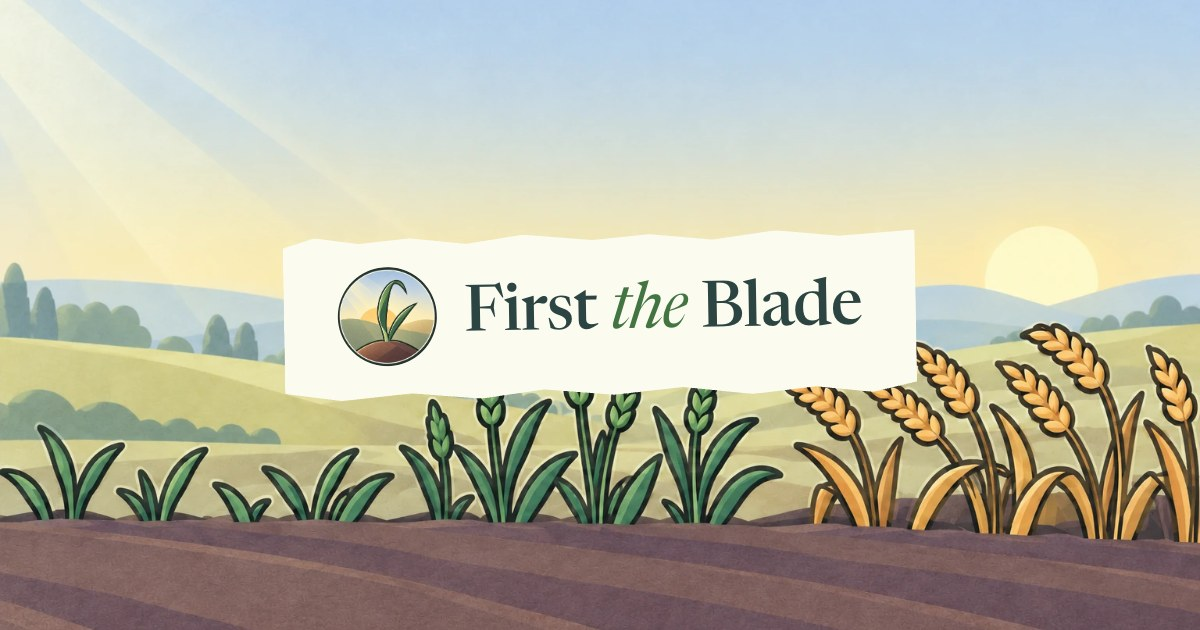
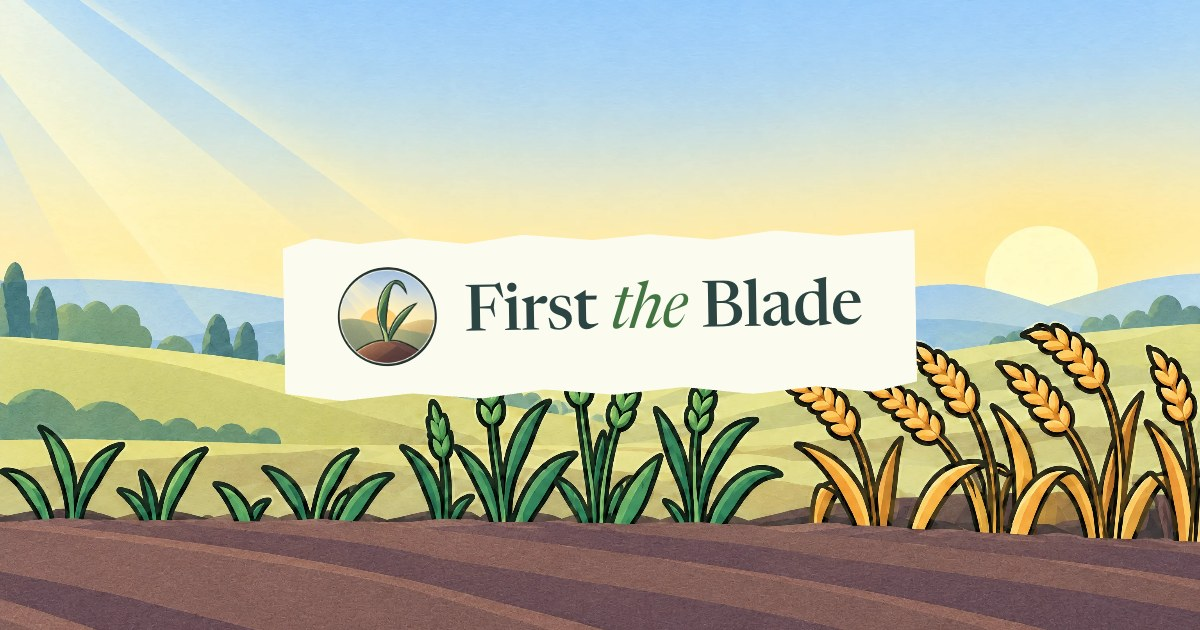
feat(firsttheblade): the hero is round 5's repaint of the field at 3072 px
The owner chose the repaint in brand round 5 (ask a296fc80e5e: "i like the e
repainted colors there - more crisp"). The field ships at 768, 1536 and 3072
px, each from the 3072 px master, so a 2x screen at 1440 px draws real
pixels. The link cards follow the hero, so a shared link looks like the page
it opens; the YouTube kit keeps round 4's field, as set 6 was picked with it
(its files are byte for byte the same).

diff --git a/apps/firsttheblade/kit/draw.ts b/apps/firsttheblade/kit/draw.ts
@@ -8,8 +8,10 @@
  * - The site's link cards and icons, into `public/`: a card per page
  *   (`og/<page>.jpg`, 1200 × 630), the app icons and `favicon.ico`.
  *
- * The paintings are brand round 4's (`kit/art/` at full size; the emblems
- * from `src/art/`); the colours are `src/palette.ts`.
+ * The YouTube kit's paintings are brand round 4's (`kit/art/` at full size).
+ * The link cards show the site's own hero, round 5's repaint of the field
+ * (`src/art/field-3072.webp`), so a shared link looks like the page it opens;
+ * the emblems are from `src/art/`. The colours are `src/palette.ts`.
  */
 import { BunRuntime, BunServices } from '@effect/platform-bun';
 import { chromium, type Browser } from '@playwright/test';
@@ -54,8 +56,13 @@ const lockup = (px: number) =>
 const strip = (inner: string, padding: string) =>
   `<div style="display:inline-block;background:${PALETTE.strip};clip-path:${TORN};padding:${padding}">${inner}</div>`;
 
-const field = (position: string) =>
-  `<div style="position:absolute;inset:0;background:url(${kitArt('field.webp')}) ${position}/cover"></div>`;
+/** The field as YouTube set 6 was picked with it: round 4's painting. */
+const YOUTUBE_FIELD = kitArt('field.webp');
+/** The field as the site's hero shows it. */
+const SITE_FIELD = url(`${APP}/src/art/field-3072.webp`);
+
+const field = (art: string, position: string) =>
+  `<div style="position:absolute;inset:0;background:url(${art}) ${position}/cover"></div>`;
 
 const frame = (width: number, height: number, inner: string) =>
   `<div style="position:relative;width:${width}px;height:${height}px;overflow:hidden">${inner}</div>`;
@@ -160,7 +167,7 @@ const DESKTOP = { y: 508.5, height: 423 } as const;
 const banner = frame(
   2560,
   1440,
-  `${field('50% 58%')}<div style="position:absolute;left:50%;top:720px;transform:translate(-50%,-50%) rotate(-1deg)">${strip(lockup(110), '40px 80px')}</div>`,
+  `${field(YOUTUBE_FIELD, '50% 58%')}<div style="position:absolute;left:50%;top:720px;transform:translate(-50%,-50%) rotate(-1deg)">${strip(lockup(110), '40px 80px')}</div>`,
 );
 
 /** What a TV, a computer and a phone show of the banner. */
@@ -208,14 +215,14 @@ const OG = { width: 1200, height: 630 } as const;
 const homeCard = frame(
   OG.width,
   OG.height,
-  `${field('50% 58%')}<div style="position:absolute;left:50%;top:50%;transform:translate(-50%,-50%) rotate(-1deg)">${strip(lockup(64), '30px 54px')}</div>`,
+  `${field(SITE_FIELD, '50% 58%')}<div style="position:absolute;left:50%;top:50%;transform:translate(-50%,-50%) rotate(-1deg)">${strip(lockup(64), '30px 54px')}</div>`,
 );
 
 const seriesCard = (series: Series) =>
   frame(
     OG.width,
     OG.height,
-    `${field('50% 58%')}<div style="position:absolute;left:50%;top:50%;transform:translate(-50%,-50%) rotate(-1deg)">${strip(
+    `${field(SITE_FIELD, '50% 58%')}<div style="position:absolute;left:50%;top:50%;transform:translate(-50%,-50%) rotate(-1deg)">${strip(
       `<div style="display:flex;align-items:center;gap:32px"><img src="${emblem(series.id)}" width="132" height="132" alt=""><div><div style="font:500 17px Newsreader;letter-spacing:.16em;text-transform:uppercase;color:${PALETTE.accent};white-space:nowrap">${series.subject} · ${series.form}</div><div style="margin-top:6px;font:500 64px/1.05 Newsreader;font-variation-settings:'opsz' 72;letter-spacing:-.015em;color:${PALETTE.ink};white-space:nowrap">${series.name}</div><div style="margin-top:14px">${lockup(26)}</div></div></div>`,
       '34px 56px',
     )}</div>`,

diff --git a/apps/firsttheblade/src/ui/art.ts b/apps/firsttheblade/src/ui/art.ts
@@ -1,8 +1,9 @@
 /**
  * The site's pictures, by what they show. Each import is the built file's
  * URL (Vite fingerprints it under `/assets/`, which is cached for a year).
- * The field, the night and the mark are brand round 4's paintings in palette
- * 09; the emblems are round 3's series marks in the same colours.
+ * The field is brand round 5's repaint of round 4's field at 3072 px; the
+ * night and the mark are round 4's paintings in palette 09; the emblems are
+ * round 3's series marks in the same colours.
  */
 import emblemLand from '../art/emblem-land.svg';
 import emblemMilk from '../art/emblem-milk.svg';
@@ -10,25 +11,33 @@ import emblemRemedies from '../art/emblem-remedies.svg';
 import emblemTaught from '../art/emblem-taught.svg';
 import field768 from '../art/field-768.webp';
 import field1536 from '../art/field-1536.webp';
+import field3072 from '../art/field-3072.webp';
 import mark112 from '../art/mark-112.webp';
 import mark320 from '../art/mark-320.webp';
 import night768 from '../art/night-768.webp';
 import night1536 from '../art/night-1536.webp';
 import type { SeriesId } from '../content.ts';
 
-/** A painting at two widths, for `srcset`; both are 3:2. */
+/** A painting at the widths a page may fetch; each file is 3:2. */
 export interface Painting {
-  readonly small: string;
-  readonly large: string;
+  /** The smallest file, for a browser that reads no `srcset`. */
+  readonly src: string;
+  readonly srcset: string;
 }
 
-export const srcset = (painting: Painting) => `${painting.small} 768w, ${painting.large} 1536w`;
+type Width = readonly [url: string, width: number];
+
+/** A painting from its files, smallest first. */
+const painting = (smallest: Width, ...larger: ReadonlyArray<Width>): Painting => ({
+  src: smallest[0],
+  srcset: [smallest, ...larger].map(([url, width]) => `${url} ${width}w`).join(', '),
+});
 
 /** The field at morning, blade to full corn. */
-export const FIELD: Painting = { small: field768, large: field1536 };
+export const FIELD = painting([field768, 768], [field1536, 1536], [field3072, 3072]);
 
 /** The same field at night, under the moon. */
-export const NIGHT: Painting = { small: night768, large: night1536 };
+export const NIGHT = painting([night768, 768], [night1536, 1536]);
 
 /** The mark: the shoot in its disc, small for the lockup and large on its own. */
 export const MARK = { small: mark112, large: mark320 } as const;

diff --git a/apps/firsttheblade/src/ui/parts.tsx b/apps/firsttheblade/src/ui/parts.tsx
@@ -8,7 +8,7 @@ import type { JSX } from '@solidjs/web';
 
 import { MARK_4_27, type Series, type Verse } from '../content.ts';
 import { CHANNEL } from '../site.ts';
-import { EMBLEMS, FIELD, MARK, NIGHT, srcset } from './art.ts';
+import { EMBLEMS, FIELD, MARK, NIGHT } from './art.ts';
 import { FOOTER_NAV_ID, NAV, SUBSCRIBE } from './nav.ts';
 
 export const seriesHref = (series: Series) => `/series/${series.slug}`;
@@ -46,8 +46,8 @@ interface FieldArtProps {
 const FieldArt = (props: FieldArtProps) => (
   <img
     class="field-art"
-    src={FIELD.small}
-    srcset={srcset(FIELD)}
+    src={FIELD.src}
+    srcset={FIELD.srcset}
     sizes={props.sizes}
     alt=""
     width="1536"
@@ -135,8 +135,8 @@ export const NightClose = () => (
   <section class="night" aria-labelledby="night-title">
     <img
       class="night-art"
-      src={NIGHT.small}
-      srcset={srcset(NIGHT)}
+      src={NIGHT.src}
+      srcset={NIGHT.srcset}
       sizes="(min-width: 65rem) 100vw, 65rem"
       alt=""
       width="1536"

diff --git a/apps/firsttheblade/README.md b/apps/firsttheblade/README.md
@@ -70,7 +70,8 @@ read” (the morning field, the series on torn paper, a dusk band, the night
 close with Mark 4:27), and palette 09, “Morning under a blue sky”, from Sanzo
 Wada's combination no. 294. The colours have one source, `src/palette.ts`;
 the stylesheet's `--color-*` tokens repeat them, and the tests hold the two
-together.
+together. Round 5 (2026-10-19) sharpened two pieces: the hero is a repaint
+of the field at 3072 px, and the dusk band blends in oklab.
 
 ```bash
 bun run contrast   # every built page at 390 and 1440 px, and each link under the pointer, against WCAG AA (build first)
@@ -82,11 +83,14 @@ build, and so does CI's gate job, in the runner's Google Chrome.
 
 ## The art and the fonts
 
-The field, the night and the mark (`src/art/`, and `kit/art/` at full size)
-are brand round 4's paintings; the series emblems are round 3's, in the same
-colours. The thumbnails' paintings (`kit/art/robe.webp`, `kit/art/court.webp`)
-are from Righteousness by Faith. The link cards and icons in `public/` are drawn
-from them by `bun run kit`.
+The site's field (`src/art/field-*.webp`, 768 to 3072 px) is brand round 5's
+repaint of round 4's field. The night and the mark (`src/art/`, and `kit/art/`
+at full size) are round 4's paintings, and the YouTube kit keeps round 4's
+field (`kit/art/field.webp`), as YouTube set 6 was picked with it. The series
+emblems are round 3's, in the same colours. The thumbnails' paintings
+(`kit/art/robe.webp`, `kit/art/court.webp`) are from Righteousness by Faith.
+`bun run kit` draws the link cards in `public/og/` from the site's field, and
+the icons from the mark.
 
 Newsreader (`src/fonts/`) is under the SIL Open Font License 1.1, subset to
 Latin and Latin Extended and served from this site.
